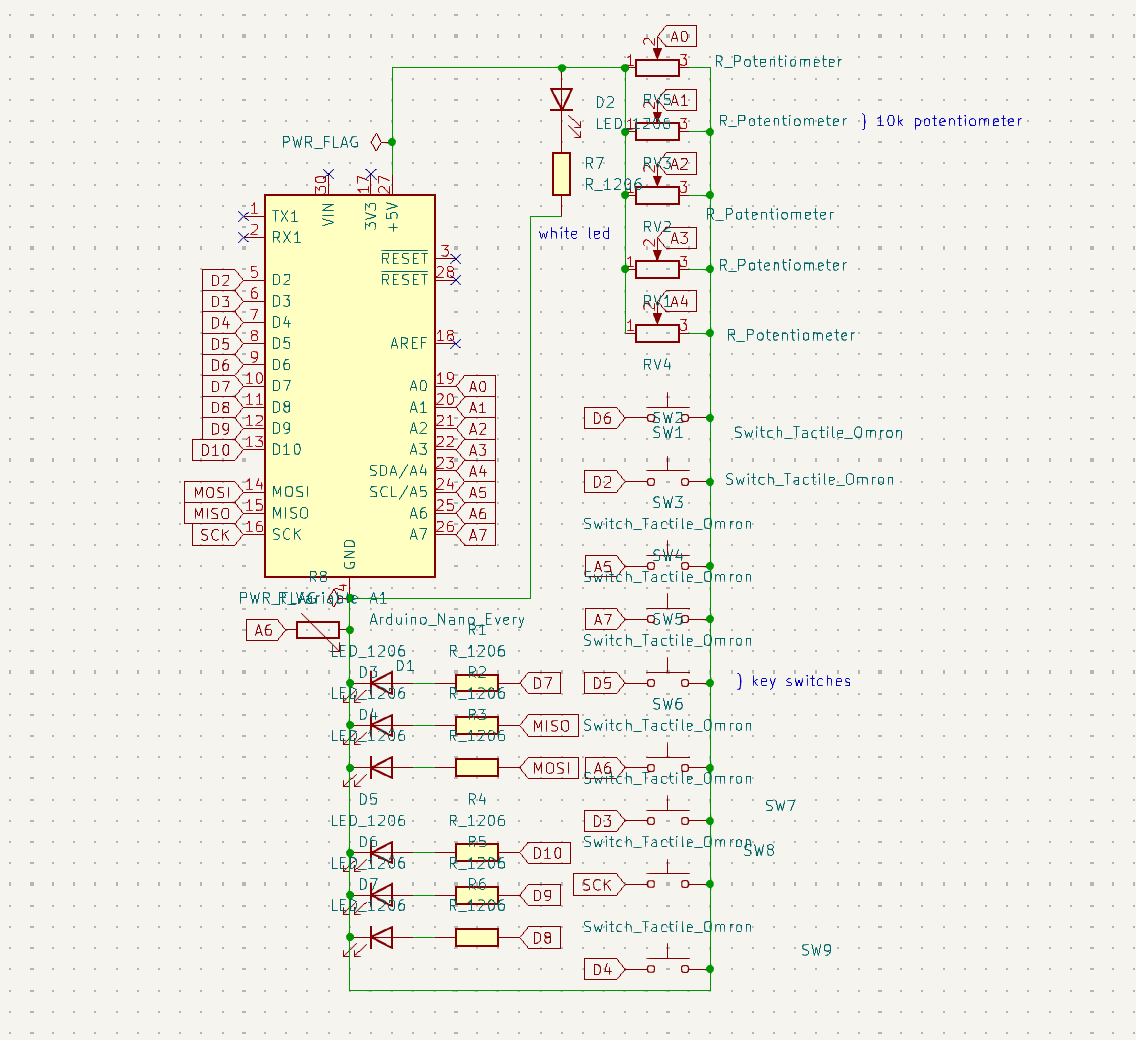
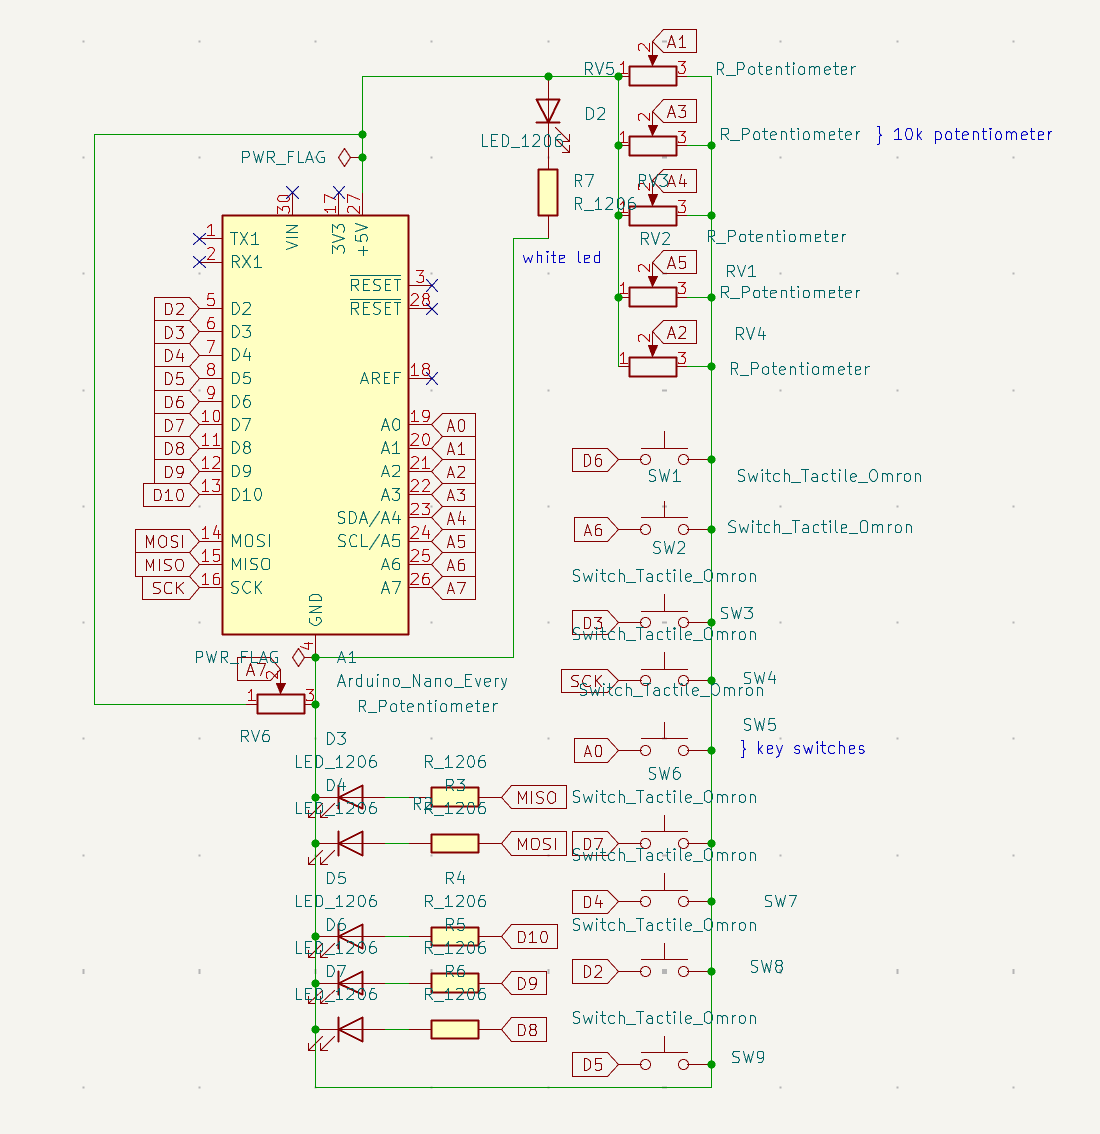
101625-2

diff --git a/content/post/adv/index.md b/content/post/adv/index.md
@@ -174,10 +174,39 @@ void loop() {
 
 ### 10/14/25
 
-Today, Mr. Dubick went over the process of using Github Pages to develop our digital portfolio sites. Since I already set up a site, and I'm waiting for the RTDs to arrive, I worked on side project during class. I wanted to design a MIDI player and record some music for the backtrack of my STEM maker portfolio. I designed a basic schematic of the main board, which uses an Arduino Nano board as the microcontroller:
+Today, Mr. Dubick went over the process of using Github Pages to develop our digital portfolio sites. Since I already set up a site, and I'm waiting for the RTDs to arrive, I worked on side project during class. On Youtube, I've been watching a lot of videos from the [Nerd Musician](https://www.youtube.com/@NerdMusician), and I similarly wanted to design a MIDI player and record some music my STEM maker portfolio. I designed a basic schematic of the main board, which uses an Arduino Nano board as the microcontroller:
 
 <center>
 <img src="midischematic.png" width=500>
 </center>
 
 After assigning footprints, I arranged all of the components in the PCB layout editor. I then tried to route this board, but for some reason, Kicad kept crashing whenever I drew a trace. 
+
+### 10/15/25
+
+We had today off due to PSATs, so I continued working on MIDI PCB. I found that the KiCad crashing issue was related to an overloaded cache, so in terminal, I ran the following command:
+
+```
+rm -rf ~/Library/Caches/kicad
+
+rm -rf ~/Library/Preferences/kicad
+
+rm -rf ~/Library/Application Support/kicad
+```
+
+and this resolved the problem. In the PCB layout editor, I routed the MIDI PCB, using my standard constraints and .5mm width tracks. Some of the footprints, such as the [CherryMX key switch](https://github.com/sszczep/kicad-libraries), weren't previously available in KiCad, so I had to manually import them. Since all of the components are through-hole, I made use of both the front and back side.
+
+<center>
+<img src="midipcb.png" width=500>
+</center>
+
+Here's the projected BOM for this project:
+
+| Part Name | Cost | Quantity | Source |
+| :---------: | :---------: | :-----: |:--------:|
+| PT120 Linear 10kΩ Potentiometer | $1.42  | 5 | [Digikey](https://www.digikey.com/en/products/detail/tt-electronics-bi/P120PK-Y25BR10K/5957454)|
+| White Micro Potentiometer Knob - 4 pack | $2.95 | 2 | [Adafruit](https://www.adafruit.com/product/5538) |
+| Slide Potentiometer with Plastic Knob - 45mm Long - 10KΩ | $1.95 | 1 | [Adafruit](https://www.adafruit.com/product/4272) |
+| 1206 SMD LEDs | $0.36 | 6 | [Digikey](https://www.digikey.com/en/products/detail/liteon/LTW-C230DS/3198820) |
+| 1206 SMD 330Ω | $0.21 | 6 | [Digikey](https://www.digikey.com/en/products/detail/rohm-semiconductor/KTR18EZPF3303/1983725) |
+| Arduino Nano Every Development board | $12.90 | 1 | [Arduino Store](https://store-usa.arduino.cc/products/nano-every?srsltid=AfmBOor4duAdkQ7W_REHfcpkdtGwOyXQd2NoSeVBtsPD7mocRG2U5cxd) |
